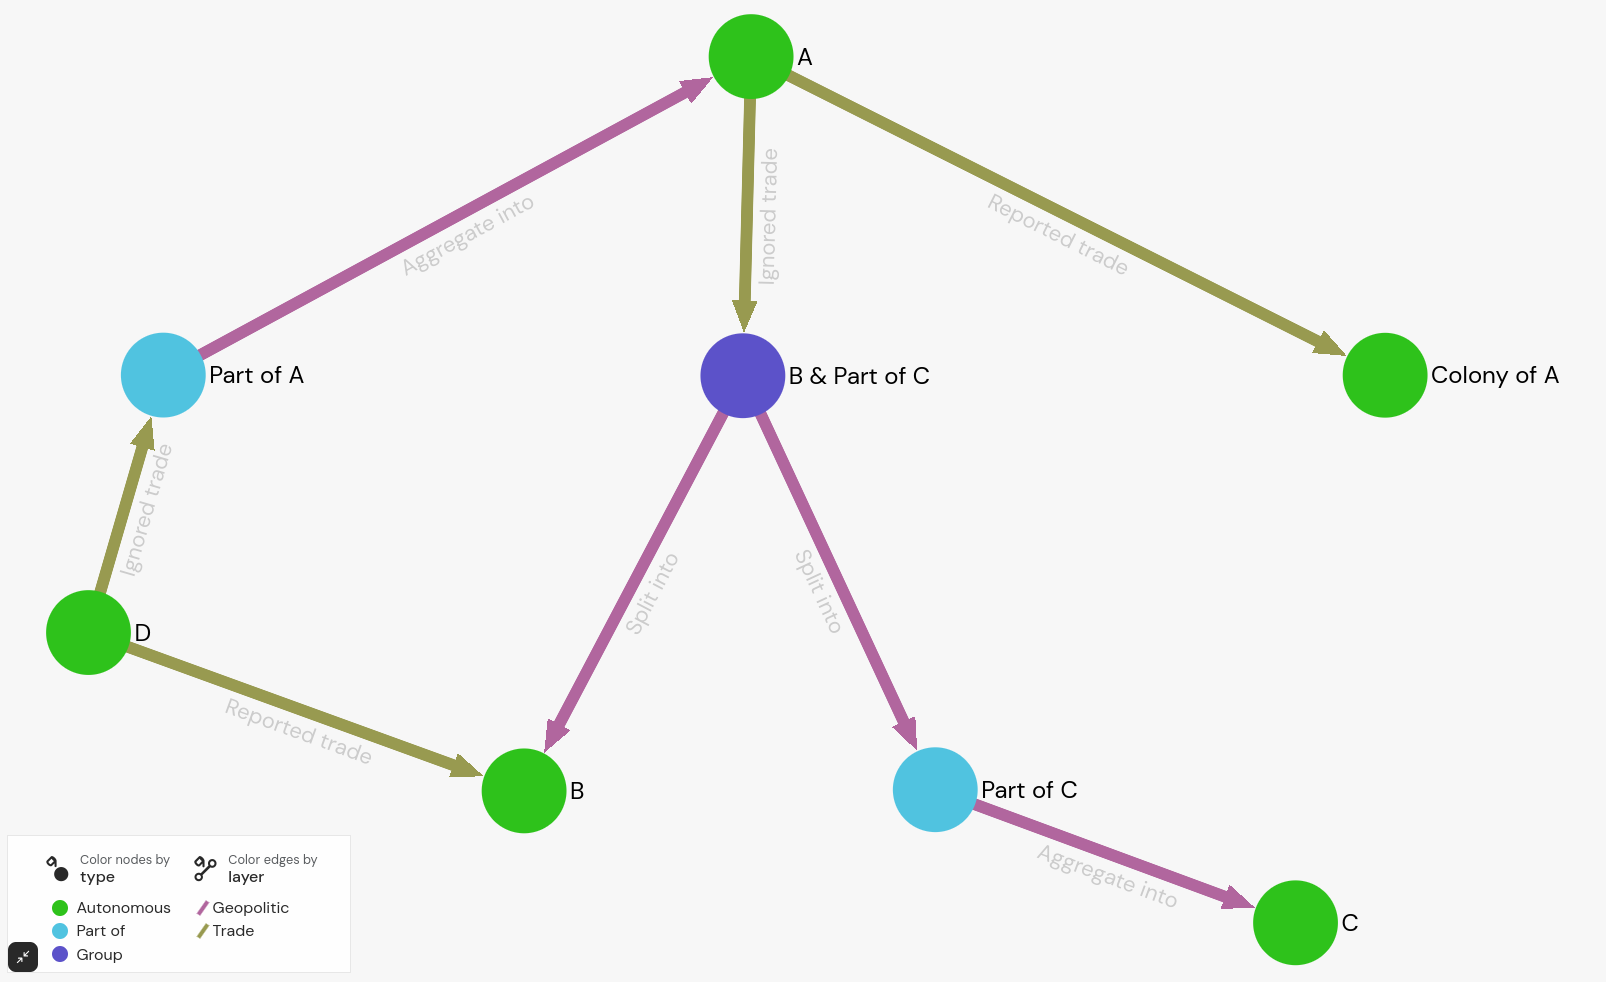
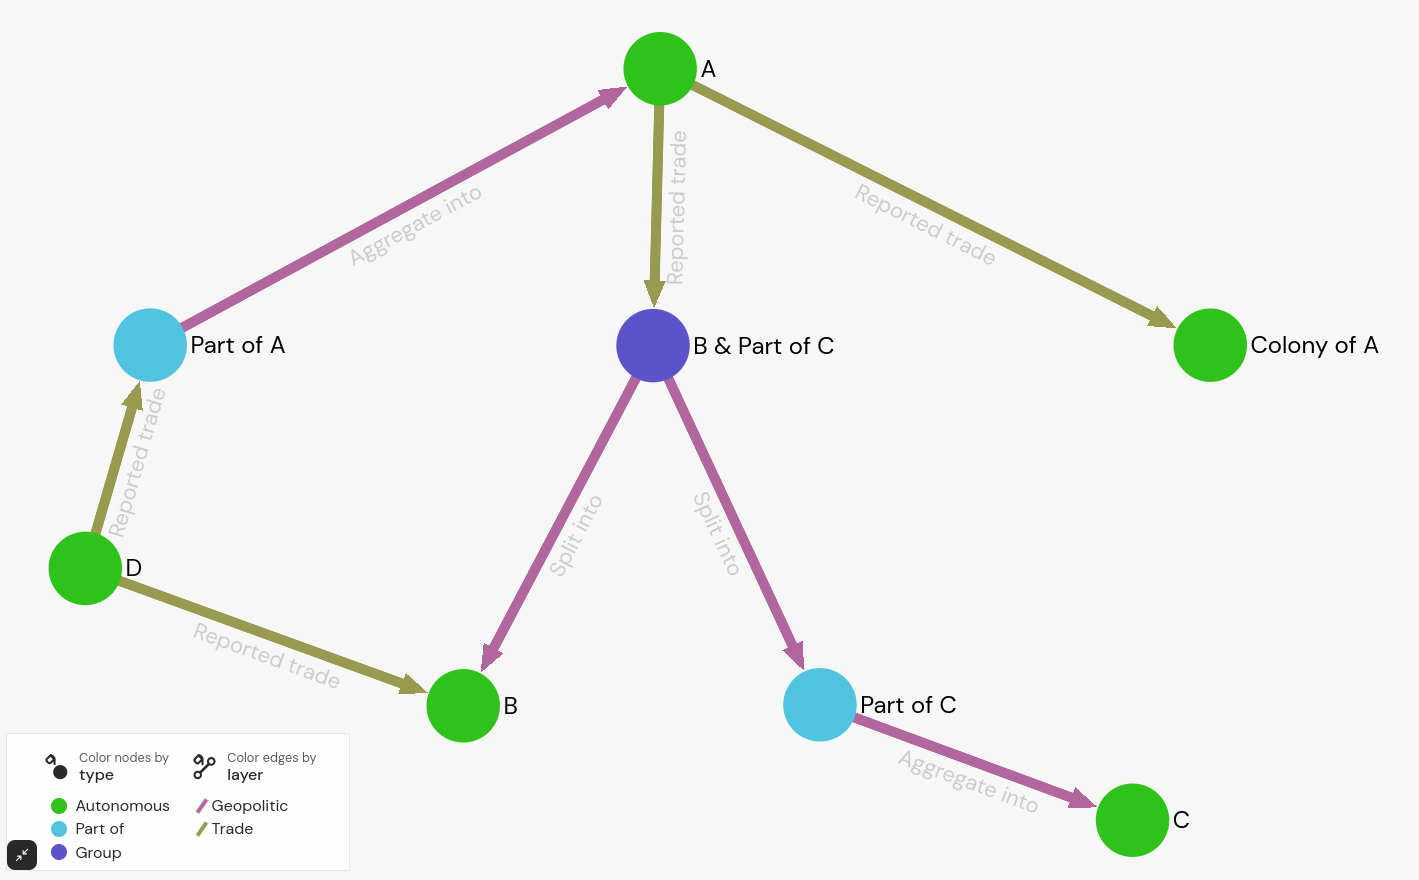
[HNR] refinements - results percentages text - edge labels issues

diff --git a/Présentations/20260722_Historical_Network_Research/slides.md b/Présentations/20260722_Historical_Network_Research/slides.md
@@ -191,7 +191,7 @@ layout: center
 
 # Multilayer networks bridging trade and politics
 
-Build yearly network which combine trade flow edges with geopolitical resolutions edges.
+Build yearly networks which combine trade flow edges with geopolitical resolutions edges.
 
 By using the GeoPolHist dataset:
 
@@ -243,11 +243,17 @@ From additional data edited for this paper:
 
 - Geographical Area -[ **SPLIT_INTO** ]-> members
 
-From GPH:
+From GeoPolHist:
 
 - `Part of` GPH entity -[ **AGGREGATE_INTO** ]-> sovereign
 - Colonial Area -[ **SPLIT_INTO** ]-> colonies  
   _(reusing geographical area data table)_
+
+---
+layout: iframe
+url: https://lite.gephi.org/v1.0.2/?file=https://raw.githubusercontent.com/paulgirard/ricardo_gph_analysis/refs/heads/main/Pr%C3%A9sentations/20260722_Historical_Network_Research/1850_GPH_resolution_gephi_lite.json
+scale: 0.5
+---
 
 ---
 layout: center
@@ -258,6 +264,12 @@ layout: center
 Then for each non-autonomous entity (source: GPH), we traverse resolution edges until finding an autonomous entity.
 
 This method allows to traverse multiple non-autonomous entities until finding the good one like a group containing a part of.
+
+---
+layout: iframe
+url: https://lite.gephi.org/v1.0.2/?file=https://raw.githubusercontent.com/paulgirard/ricardo_gph_analysis/refs/heads/main/Pr%C3%A9sentations/20260722_Historical_Network_Research/1850_trade_gephi_lite.json
+scale: 0.5
+---
 
 ---
 layout: center
@@ -273,18 +285,6 @@ PS #1: do not overwrite an existing reported trade flow
 PS #2: do not create internal trade flows, discard trade flows between part of and its parent
 
 </small>
-
----
-layout: iframe
-url: https://lite.gephi.org/v1.0.2/?file=https://raw.githubusercontent.com/paulgirard/ricardo_gph_analysis/refs/heads/main/Pr%C3%A9sentations/20260722_Historical_Network_Research/1850_GPH_resolution_gephi_lite.json
-scale: 0.5
----
-
----
-layout: iframe
-url: https://lite.gephi.org/v1.0.2/?file=https://raw.githubusercontent.com/paulgirard/ricardo_gph_analysis/refs/heads/main/Pr%C3%A9sentations/20260722_Historical_Network_Research/1850_trade_gephi_lite.json
-scale: 0.5
----
 
 ---
 layout: center
@@ -362,6 +362,8 @@ layout: center
 
 <ShareTotalReportedValue />
 
+We convert into bilateral flows between countries or colonies 75% of the bilateral flows corresponding to exchanges involving at least one miscellaneous entity (cities, groups of countries, areas), which accounts for 19.4% on average of the total value of bilateral flows over the period.
+
 ---
 layout: center
 ---
@@ -370,6 +372,9 @@ layout: center
 
 <ShareGeneratedTradeValue />
 
+The ”aggregation”, ”split by ratio in adjacent years” and ”gravity” methods solved
+13%, 2.7% and 3.6% of the cases respectively.
+
 ---
 layout: center
 ---
@@ -377,6 +382,10 @@ layout: center
 # Trade Network density gain!
 
 <TradeNetworkDensity />
+
+Our method yields an average 156% increase in trade network density across the period. The
+average density grows from 1.6% to 4.3%, including trade flows and partners we could not
+solve.
 
 ---
 layout: center